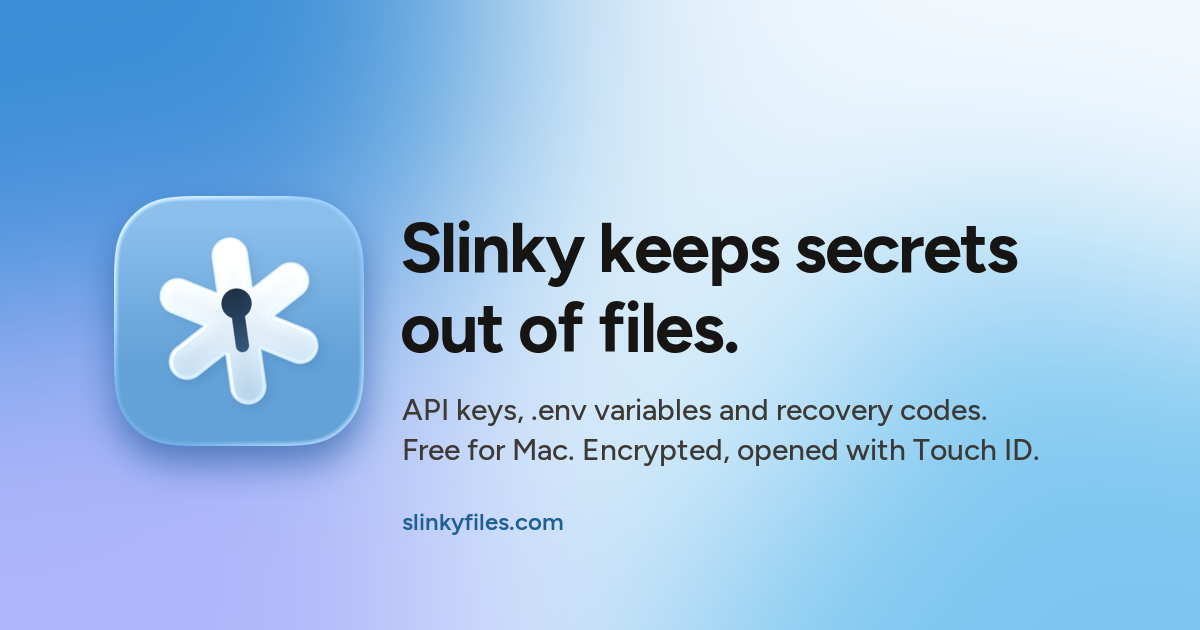
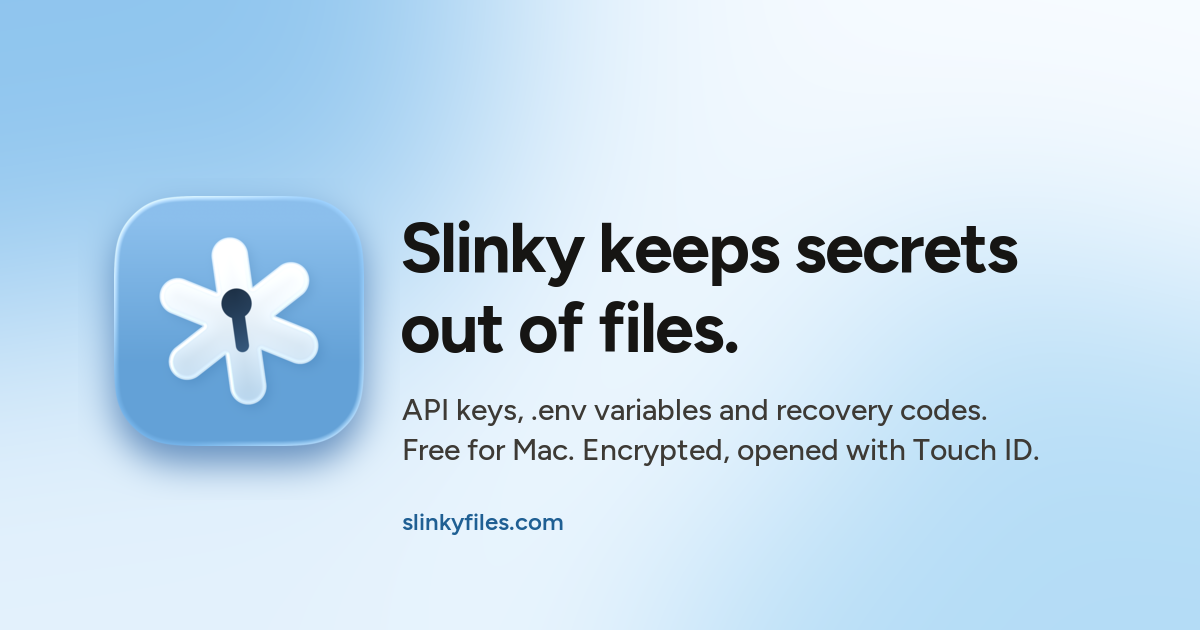
Site: ice-only mesh (no purple), family tabs on top, Slinky bar at the bottom, softer glass

diff --git a/site/src/styles/tokens.css b/site/src/styles/tokens.css
@@ -23,11 +23,12 @@
   --gutter: max(20px, env(safe-area-inset-left, 0px));
 
   /* Slinky's mesh (the "desktop wallpaper"). Five points, same format as the testamentmade app cards. */
-  --c1: #3b8ed6;   /* deep glacier */
-  --c2: #f3f9fe;   /* ice, nearly white */
-  --c3: #7cc6f0;   /* sky, the icon's lighter blue */
-  --c4: #aeb6fa;   /* cool periwinkle */
-  --c5: #dcefFB;   /* pale ice */
+  /* Mostly ice white, with hints of glacier blue. No purple: Slinky is ice. */
+  --c1: #8fc5ee;   /* glacier, softened */
+  --c2: #f7fbff;   /* ice, nearly white */
+  --c3: #b4dcf6;   /* sky */
+  --c4: #e3f1fc;   /* frost */
+  --c5: #eef7fe;   /* pale ice */
   --brand: #4a7aa3; /* the app's accent: carries white text at about 4.6:1 */
   --brand-ink: #1f5f93;
   --glow: rgb(30 100 170 / 0.45);
@@ -52,11 +53,11 @@
     --shadow-lift: 0 2px 4px rgb(0 0 0 / 0.3), 0 18px 40px -18px rgb(0 0 0 / 0.7);
     color-scheme: dark;
 
-    --c1: #2068a8;
-    --c2: #08182a;
-    --c3: #2f86c4;
-    --c4: #2c2f86;
-    --c5: #0f2c4a;
+    --c1: #1d5a8f;
+    --c2: #0a1622;
+    --c3: #23608f;
+    --c4: #0f2333;
+    --c5: #0d1d2c;
     --brand-ink: #9fd0f2;
     --glow: rgb(20 90 160 / 0.55);
 

diff --git a/docs/DESIGN.md b/docs/DESIGN.md
@@ -79,6 +79,13 @@ Read this before any design work. Every visual decision should trace back to som
   - Finder's rules, tested: a background picture can't follow light/dark mode; with a picture, icon labels are always black; transparent parts are filled with white even in dark mode. So the background has to be light enough for black labels, and "system background plus a pattern" isn't possible. Only Finder's plain default background follows the mode, and it can't show art.
 - **Working state:** the keyhole is absorbed into the asterisk, which spins (see `docs/plan.md`).
 
+## Website (slinkyfiles.com, `site/`)
+- Astro on Cloudflare Pages, like heyderekj.com and testamentmade.com. Family type and motion: Figtree, paper/ink tokens, `--ease`, squircles.
+- **Wallpaper:** a mesh gradient drawn in WebGL2 (`site/src/scripts/glass.ts`). Mostly ice white with hints of glacier blue; never purple (Derek, 2026-10-17). Dark mode is deep glacier navy.
+- **Glass:** the same shader refracts the wallpaper under every `[data-glass]` element, so it works in Safari. Kept subtle: light bending, soft rim. Things that float over page content (family tabs, bottom bar, toasts) use CSS blur (`.float-glass`) instead.
+- **Navigation:** family tabs across the top (Dinky, Binky, Slinky; the current app raised), and the site's own links in a glass bar at the bottom. Dinky and Binky move to the same pattern.
+- **No screenshots:** the app is rebuilt in HTML with small demos (Add Item, a project's .env, recovery codes, Quick Access, the lock).
+
 ## Live documents
 - Brief: https://claude.ai/artifact/McGgBjGnbNoYo5WwDqKURU (`docs/slinky-brief.html`)
 - Layouts: https://claude.ai/artifact/8YhiTxEgrAT4oewnE1D37c (`docs/slinky-layouts.html`)
